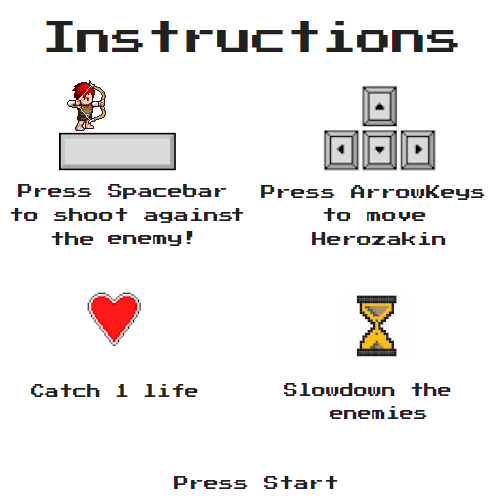
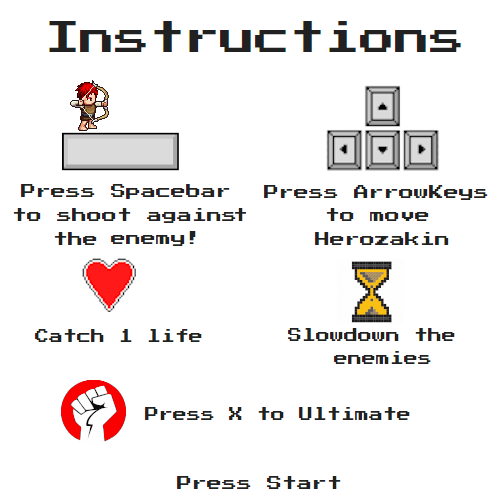
New feature - Ultimate Power

diff --git a/js/game.js b/js/game.js
@@ -8,6 +8,7 @@ class Game {
     this.background = new Background(this);
     this.audio = audio;
     this.gameoverPlayed = false;
+    this.ultimateUsed = false;
   }
 
   setKeyBindings() {
@@ -46,6 +47,15 @@ class Game {
           event.preventDefault();
           this.player.direction = 'up';
           this.player.shootArrow = true;
+          break;
+
+        case 88: //Ultimate Power
+          event.preventDefault();
+          if (!this.ultimateUsed) {
+            this.horde.enemies = [];
+            this.ultimateUsed = true;
+          }
+          break;
       }
     });
   }
@@ -56,9 +66,10 @@ class Game {
       delete this.timeout;
     }
     this.running = true;
-
+    this.ultimateUsed = false;
     //CREATE ALL CLASSES
     this.player = new Hero(this);
+    this.ultimatepower = new Ultimate(this);
     this.horde = new Horde(this);
     this.extralife = new Extra(this);
     this.slowdown = new Slow(this);
@@ -121,6 +132,7 @@ class Game {
   draw() {
     this.clear();
     this.background.draw();
+    this.ultimatepower.draw();
     this.player.draw();
     this.horde.draw();
     this.slowdown.draw();

diff --git a/js/ultimate.js b/js/ultimate.js
@@ -1,0 +1,19 @@
+const powerImg = new Image();
+powerImg.src = '/images/power.png';
+
+class Ultimate {
+  constructor(game) {
+    this.game = game;
+  }
+
+  draw() {
+    //DRAW SLOWDOWN IMAGE
+    const context = this.game.context;
+
+    if (!this.game.ultimateUsed) {
+      context.save();
+      context.drawImage(powerImg, 470, 470, 30, 30);
+      context.restore();
+    }
+  }
+}

diff --git a/index.html b/index.html
@@ -46,6 +46,7 @@
 
     <script src="/js/background.js"></script>
     <script src="js/slowdown.js"></script>
+    <script src="js/ultimate.js"></script>  
     <script src="/js/extralife.js"></script>
     <script src="/js/enemy.js"></script>
     <script src="/js/horde.js"></script>
